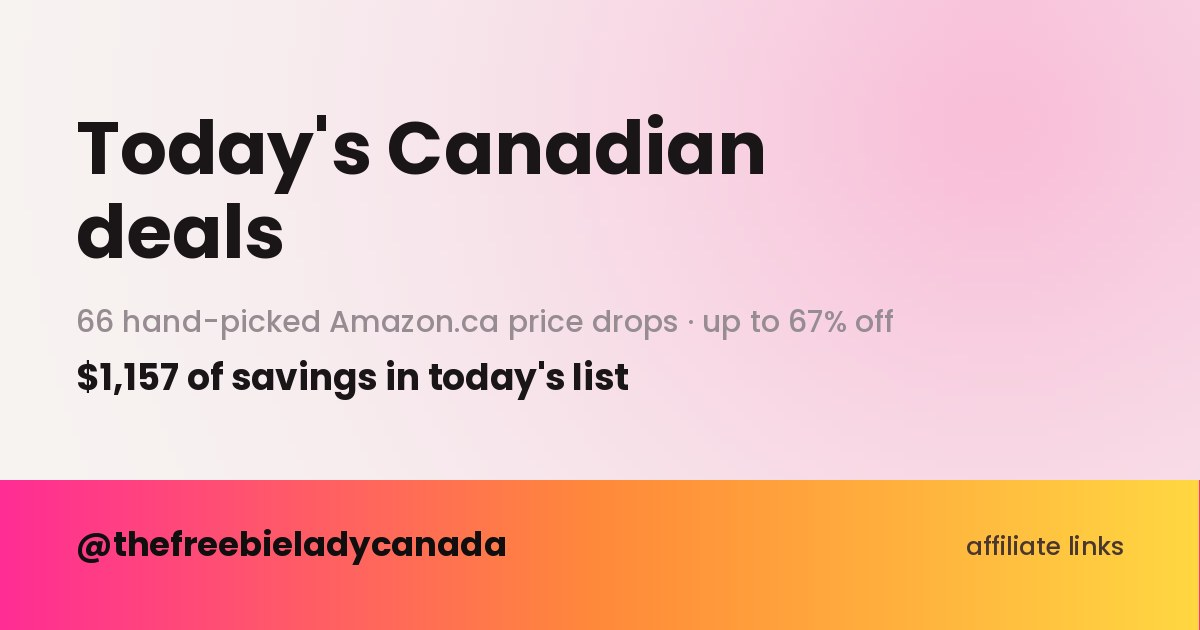
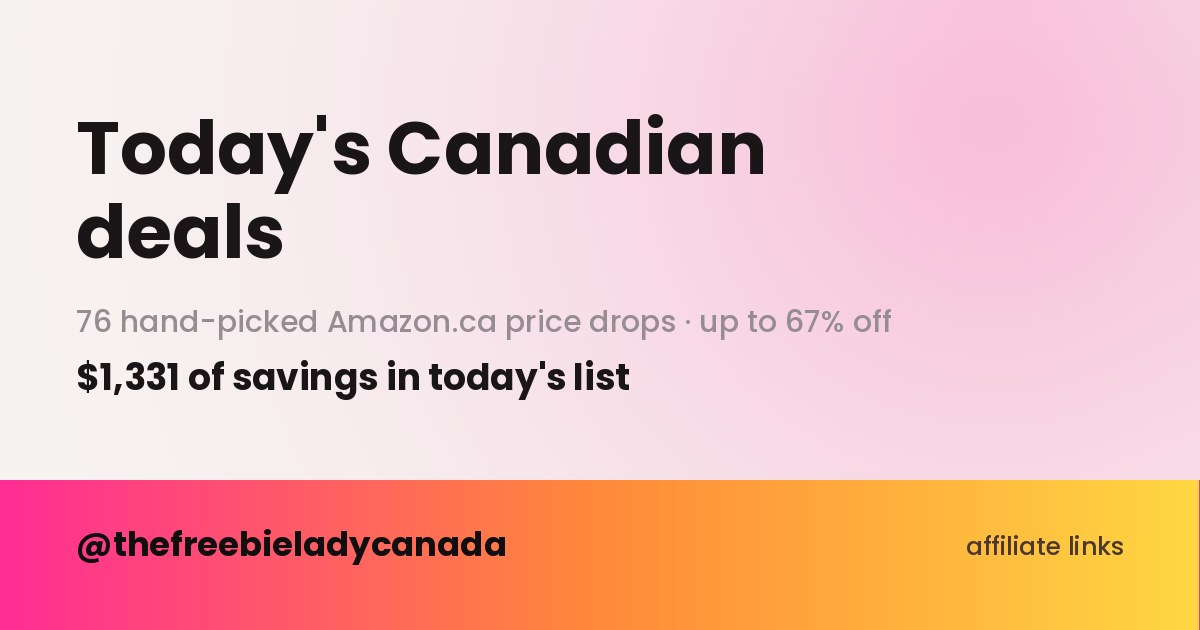
chnaged at 11:12 AM on Sep14,2026

diff --git a/index.html b/index.html
@@ -4,12 +4,12 @@
 <meta charset="utf-8">
 <meta name="viewport" content="width=device-width, initial-scale=1">
 <title>Today's Canadian Deals — The Freebie Lady Canada</title>
-<meta name="description" content="66 hand-picked Amazon.ca price drops, up to 67% off. Updated daily.">
+<meta name="description" content="76 hand-picked Amazon.ca price drops, up to 67% off. Updated daily.">
 <link rel="canonical" href="https://thefreebieladycanada.com/">
 <meta property="og:type" content="website">
 <meta property="og:site_name" content="The Freebie Lady Canada">
 <meta property="og:title" content="Today's Canadian Deals">
-<meta property="og:description" content="66 hand-picked Amazon.ca price drops, up to 67% off. Updated daily.">
+<meta property="og:description" content="76 hand-picked Amazon.ca price drops, up to 67% off. Updated daily.">
 <meta property="og:url" content="https://thefreebieladycanada.com/">
 <meta property="og:image" content="https://thefreebieladycanada.com/og.jpg">
 <meta property="og:image:width" content="1200">
@@ -148,7 +148,7 @@ footer b{color:var(--ink); font-weight:600}
     <div class="rule"></div>
     <p class="sub">Hand-picked price drops on Amazon.ca — from
       <b>@thefreebieladycanada</b>.</p>
-    <p class="meta">66 deals &middot; checked 13 September, 5:24 PM ET</p>
+    <p class="meta">76 deals &middot; checked 14 September, 11:11 AM ET</p>
   </header>
 
   <p class="upfront"><b>Affiliate links</b> — every link on this page, including the perks below, is an Amazon affiliate link.</p>
@@ -211,7 +211,7 @@ footer b{color:var(--ink); font-weight:600}
         <span class="go" aria-hidden="true">&rarr;</span>
       </a>
     </div>
-    <a class="jump" href="#deals">See today's 66 deals &darr;</a>
+    <a class="jump" href="#deals">See today's 76 deals &darr;</a>
   </section>
 
   <h2 class="deals-head" id="deals">Today's deals</h2>
@@ -458,6 +458,21 @@ footer b{color:var(--ink); font-weight:600}
     </li>
 
     <li>
+      <a class="deal" href="https://www.amazon.ca/dp/B085NT8HWJ?tag=thefreebielad-20&amp;linkCode=ll1&amp;language=en_CA" target="_blank" rel="nofollow sponsored noopener">
+        <span class="off"><b>42%</b><i>off</i></span>
+        <span class="txt">
+          <span class="name">Stretch Couch Cover</span>
+          <span class="prices">
+            <span class="now">$39.99</span>
+            <span class="was">$69.00</span>
+            <span class="save">save $29.01</span>
+          </span>
+        </span>
+        <span class="go" aria-hidden="true">&rarr;</span>
+      </a>
+    </li>
+
+    <li>
       <a class="deal" href="https://www.amazon.ca/dp/B005J7Y99W?tag=thefreebielad-20&amp;linkCode=ll1&amp;language=en_CA" target="_blank" rel="nofollow sponsored noopener">
         <span class="off"><b>42%</b><i>off</i></span>
         <span class="txt">
@@ -481,6 +496,21 @@ footer b{color:var(--ink); font-weight:600}
             <span class="now">$6.99</span>
             <span class="was">$11.99</span>
             <span class="save">save $5.00</span>
+          </span>
+        </span>
+        <span class="go" aria-hidden="true">&rarr;</span>
+      </a>
+    </li>
+
+    <li>
+      <a class="deal" href="https://www.amazon.ca/dp/B00TQN06YW?tag=thefreebielad-20&amp;linkCode=ll1&amp;language=en_CA" target="_blank" rel="nofollow sponsored noopener">
+        <span class="off"><b>41%</b><i>off</i></span>
+        <span class="txt">
+          <span class="name">B+D 3-in-1 Leaf Blower</span>
+          <span class="prices">
+            <span class="now">$34.00</span>
+            <span class="was">$57.88</span>
+            <span class="save">save $23.88</span>
           </span>
         </span>
         <span class="go" aria-hidden="true">&rarr;</span>
@@ -601,6 +631,21 @@ footer b{color:var(--ink); font-weight:600}
             <span class="now">$17.17</span>
             <span class="was">$28.59</span>
             <span class="save">save $11.42</span>
+          </span>
+        </span>
+        <span class="go" aria-hidden="true">&rarr;</span>
+      </a>
+    </li>
+
+    <li>
+      <a class="deal" href="https://www.amazon.ca/dp/B0C9JXJBG4?tag=thefreebielad-20&amp;linkCode=ll1&amp;language=en_CA" target="_blank" rel="nofollow sponsored noopener">
+        <span class="off"><b>39%</b><i>off</i></span>
+        <span class="txt">
+          <span class="name">Calf Compression Sleeves</span>
+          <span class="prices">
+            <span class="now">$8.47</span>
+            <span class="was">$13.97</span>
+            <span class="save">save $5.50</span>
           </span>
         </span>
         <span class="go" aria-hidden="true">&rarr;</span>
@@ -968,6 +1013,21 @@ footer b{color:var(--ink); font-weight:600}
     </li>
 
     <li>
+      <a class="deal" href="https://www.amazon.ca/dp/B09WY3GHHL?tag=thefreebielad-20&amp;linkCode=ll1&amp;language=en_CA" target="_blank" rel="nofollow sponsored noopener">
+        <span class="off"><b>34%</b><i>off</i></span>
+        <span class="txt">
+          <span class="name">Padded 6ft Dog Leash</span>
+          <span class="prices">
+            <span class="now">$13.15</span>
+            <span class="was">$19.99</span>
+            <span class="save">save $6.84</span>
+          </span>
+        </span>
+        <span class="go" aria-hidden="true">&rarr;</span>
+      </a>
+    </li>
+
+    <li>
       <a class="deal" href="https://www.amazon.ca/dp/B0BPK28TNR?tag=thefreebielad-20&amp;linkCode=ll1&amp;language=en_CA" target="_blank" rel="nofollow sponsored noopener">
         <span class="off"><b>34%</b><i>off</i></span>
         <span class="txt">
@@ -976,6 +1036,21 @@ footer b{color:var(--ink); font-weight:600}
             <span class="now">$1.97</span>
             <span class="was">$2.97</span>
             <span class="save">save $1.00</span>
+          </span>
+        </span>
+        <span class="go" aria-hidden="true">&rarr;</span>
+      </a>
+    </li>
+
+    <li>
+      <a class="deal" href="https://www.amazon.ca/dp/B0CJ9H7VWS?tag=thefreebielad-20&amp;linkCode=ll1&amp;language=en_CA" target="_blank" rel="nofollow sponsored noopener">
+        <span class="off"><b>33%</b><i>off</i></span>
+        <span class="txt">
+          <span class="name">30&quot; Bird Cage + Stand</span>
+          <span class="prices">
+            <span class="now">$45.02</span>
+            <span class="was">$66.90</span>
+            <span class="save">save $21.88</span>
           </span>
         </span>
         <span class="go" aria-hidden="true">&rarr;</span>
@@ -1073,6 +1148,51 @@ footer b{color:var(--ink); font-weight:600}
     </li>
 
     <li>
+      <a class="deal" href="https://www.amazon.ca/dp/B09YV7B6YW?tag=thefreebielad-20&amp;linkCode=ll1&amp;language=en_CA" target="_blank" rel="nofollow sponsored noopener">
+        <span class="off"><b>32%</b><i>off</i></span>
+        <span class="txt">
+          <span class="name">Acrylic Shelves, 4-Pack</span>
+          <span class="prices">
+            <span class="now">$12.99</span>
+            <span class="was">$18.99</span>
+            <span class="save">save $6.00</span>
+          </span>
+        </span>
+        <span class="go" aria-hidden="true">&rarr;</span>
+      </a>
+    </li>
+
+    <li>
+      <a class="deal" href="https://www.amazon.ca/dp/B0C335LJK3?tag=thefreebielad-20&amp;linkCode=ll1&amp;language=en_CA" target="_blank" rel="nofollow sponsored noopener">
+        <span class="off"><b>32%</b><i>off</i></span>
+        <span class="txt">
+          <span class="name">Recliner Chair Cover</span>
+          <span class="prices">
+            <span class="now">$40.99</span>
+            <span class="was">$59.99</span>
+            <span class="save">save $19.00</span>
+          </span>
+        </span>
+        <span class="go" aria-hidden="true">&rarr;</span>
+      </a>
+    </li>
+
+    <li>
+      <a class="deal" href="https://www.amazon.ca/dp/B0FD9VP3B2?tag=thefreebielad-20&amp;linkCode=ll1&amp;language=en_CA" target="_blank" rel="nofollow sponsored noopener">
+        <span class="off"><b>32%</b><i>off</i></span>
+        <span class="txt">
+          <span class="name">61&quot; Heavy-Duty Cat Tower</span>
+          <span class="prices">
+            <span class="now">$99.99</span>
+            <span class="was">$146.98</span>
+            <span class="save">save $46.99</span>
+          </span>
+        </span>
+        <span class="go" aria-hidden="true">&rarr;</span>
+      </a>
+    </li>
+
+    <li>
       <a class="deal" href="https://www.amazon.ca/dp/B0CTJGJL2T?tag=thefreebielad-20&amp;linkCode=ll1&amp;language=en_CA" target="_blank" rel="nofollow sponsored noopener">
         <span class="off"><b>32%</b><i>off</i></span>
         <span class="txt">
@@ -1141,6 +1261,36 @@ footer b{color:var(--ink); font-weight:600}
             <span class="now">$67.25</span>
             <span class="was">$98.00</span>
             <span class="save">save $30.75</span>
+          </span>
+        </span>
+        <span class="go" aria-hidden="true">&rarr;</span>
+      </a>
+    </li>
+
+    <li>
+      <a class="deal" href="https://www.amazon.ca/dp/B0032GED02?tag=thefreebielad-20&amp;linkCode=ll1&amp;language=en_CA" target="_blank" rel="nofollow sponsored noopener">
+        <span class="off"><b>30%</b><i>off</i></span>
+        <span class="txt">
+          <span class="name">Marina Filter Carts, 3pk</span>
+          <span class="prices">
+            <span class="now">$6.97</span>
+            <span class="was">$9.99</span>
+            <span class="save">save $3.02</span>
+          </span>
+        </span>
+        <span class="go" aria-hidden="true">&rarr;</span>
+      </a>
+    </li>
+
+    <li>
+      <a class="deal" href="https://www.amazon.ca/dp/B0BZXNSW5K?tag=thefreebielad-20&amp;linkCode=ll1&amp;language=en_CA" target="_blank" rel="nofollow sponsored noopener">
+        <span class="off"><b>30%</b><i>off</i></span>
+        <span class="txt">
+          <span class="name">Touch Lamp + USB Ports</span>
+          <span class="prices">
+            <span class="now">$27.99</span>
+            <span class="was">$39.99</span>
+            <span class="save">save $12.00</span>
           </span>
         </span>
         <span class="go" aria-hidden="true">&rarr;</span>
